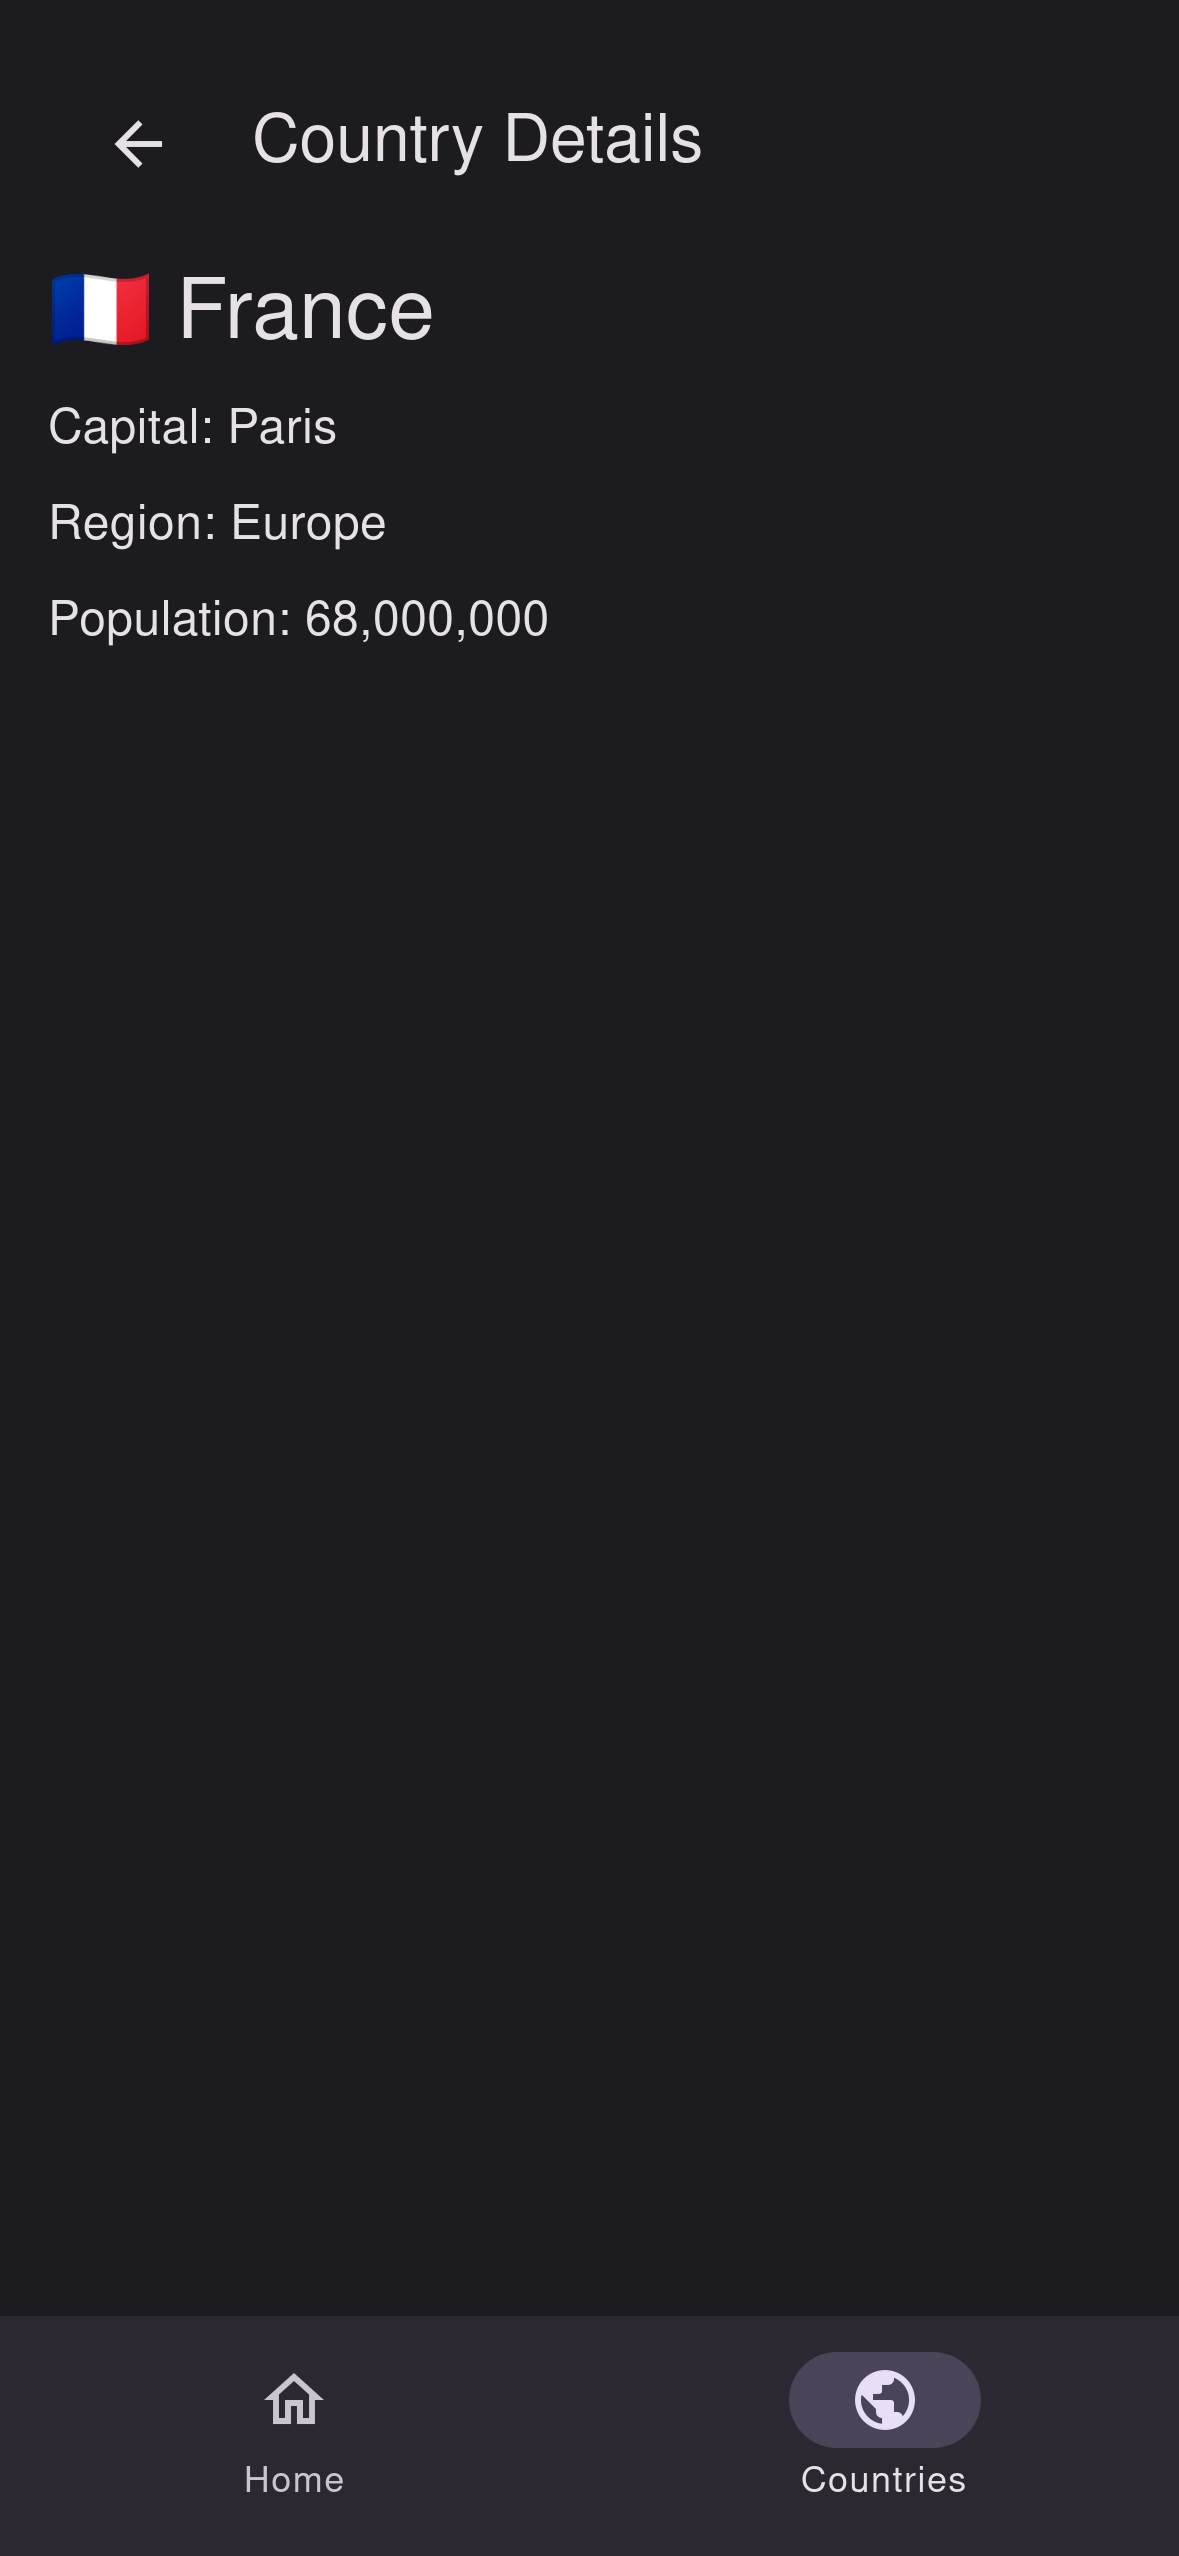
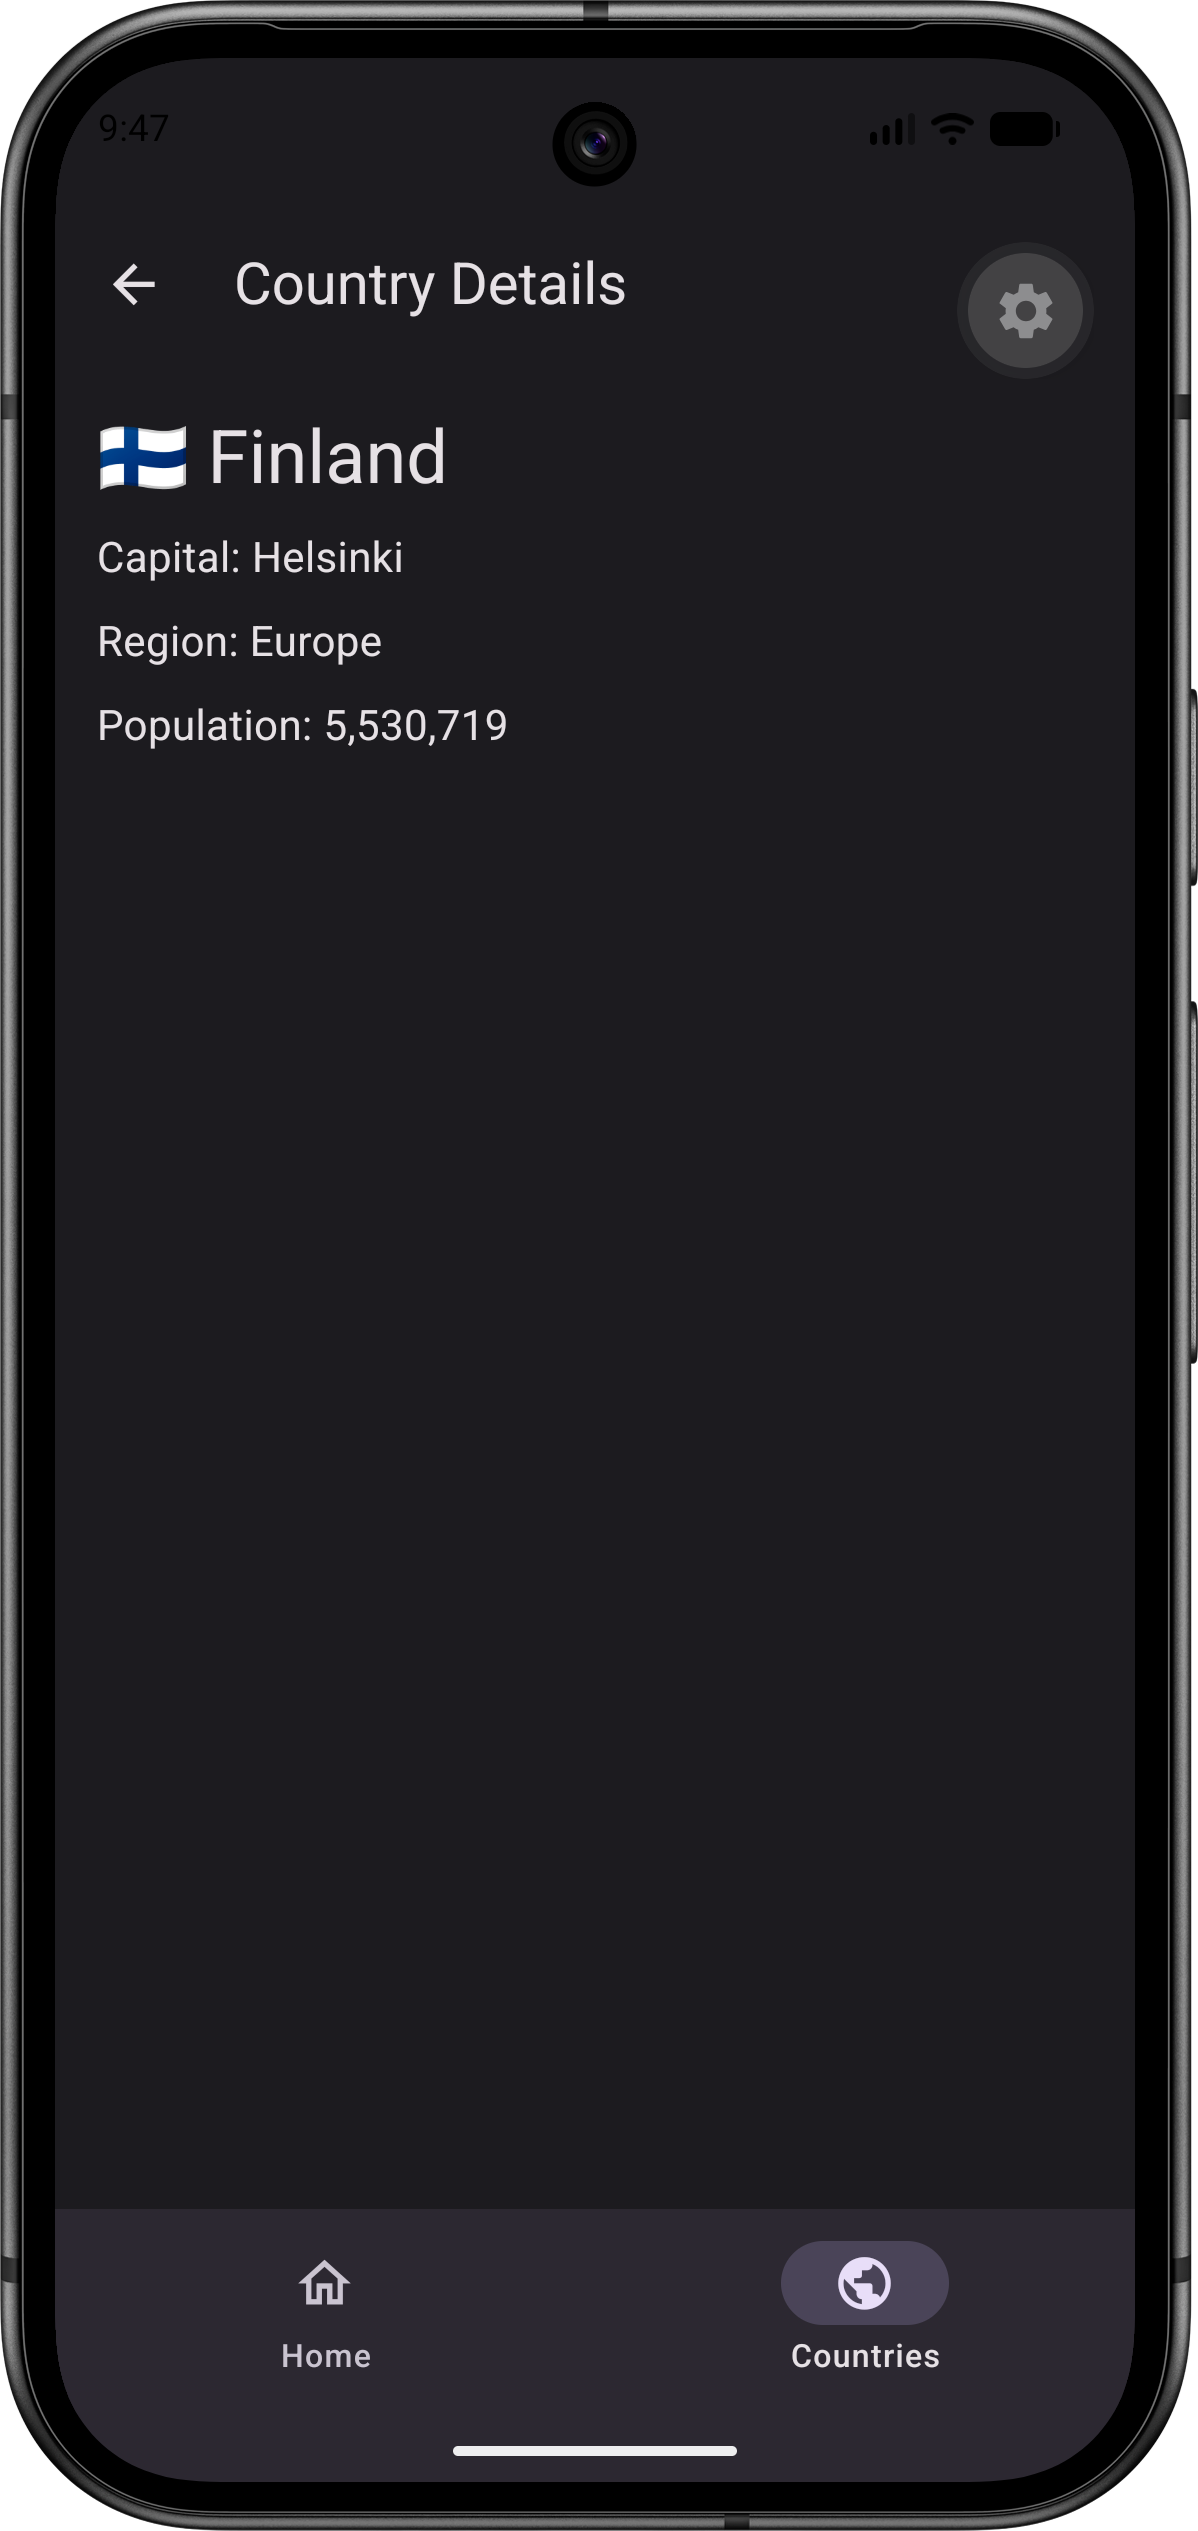
Finally Done. That was a lot

Changed region(s): [[0.0, 0.0, 1.0, 1.0], [0.7939, 0.0936, 0.916, 0.1561]]

diff --git a/screens/stack/DetailsScreen.tsx b/screens/stack/DetailsScreen.tsx
@@ -3,34 +3,58 @@ import { Appbar, Text, useTheme } from 'react-native-paper';
 import { NativeStackScreenProps } from '@react-navigation/native-stack';
 import { CountriesStackParamList } from '../../types/navigation';
 import data from '../../data/data.json';
+import { useCountry } from '@/hooks/useCountry';
+import LoadingState from '@/components/LoadingState';
+import ErrorState from '@/components/ErrorState';
 
 type Props = NativeStackScreenProps<CountriesStackParamList, 'Details'>;
 
 export default function DetailsScreen({ route, navigation }: Props) {
-    const theme = useTheme();
-  const { countryId } = route.params;
-  const country = data.find((c) => c.id === countryId);
+	const theme = useTheme();
+	const { countryId } = route.params;
+	const { detailState, refetch } = useCountry(countryId);
+	//const country = data.find((c) => c.id === countryId);
 
-  if (!country) return <Text>Country not found</Text>;
+	//if (!country) return <Text>Country not found</Text>;
 
-  return (
-    <View style={[ styles.container, { backgroundColor: theme.colors.background }]}>
-      <Appbar.Header>
-        <Appbar.Content title="Country Details" />
-        <Appbar.BackAction onPress={() => navigation.goBack()} />
-      </Appbar.Header>
-      <Text variant="headlineMedium">{country.flag} {country.name}</Text>
-      <Text variant="bodyLarge">Capital: {country.capital}</Text>
-      <Text variant="bodyLarge">Region: {country.region}</Text>
-      <Text variant="bodyLarge">Population: {country.population.toLocaleString()}</Text>
-    </View>
-  );
+	const header = (
+			<Appbar.Header>
+				<Appbar.Content title="Country Details" />
+				<Appbar.BackAction onPress={() => navigation.goBack()} />
+			</Appbar.Header>
+	);
+
+	let content;
+	if (detailState.status === 'loading') {
+		content = <LoadingState />;
+	} else if (detailState.status === 'error') {
+		content = <ErrorState onRetry={refetch} />;
+	} else if (detailState.status === 'success') {
+		const country = detailState.country;
+		content = (
+			<View style={styles.content}>
+				<Text variant="headlineMedium">{country.flag} {country.name}</Text>
+				<Text variant="bodyLarge">Capital: {country.capital}</Text>
+				<Text variant="bodyLarge">Region: {country.region}</Text>
+				<Text variant="bodyLarge">Population: {country.population.toLocaleString()}</Text>
+			</View>
+		)
+	} else {
+		content = <Text>Idle state</Text>;
+	}
+
+	return (
+		<View style={{ flex: 1, backgroundColor: theme.colors.background }}>
+			{header}
+			{content}
+		</View>
+	);
 }
 
 const styles = StyleSheet.create({
-  container: {
-    flex: 1,
-    padding: 16,
-    gap: 8,
-  },
+	content: {
+		flex: 1,
+		padding: 16,
+		gap: 8,
+	},
 });

diff --git a/screens/stack/ListScreen.tsx b/screens/stack/ListScreen.tsx
@@ -1,17 +1,25 @@
-import { View, FlatList } from 'react-native';
-import { Appbar, useTheme } from 'react-native-paper';
+import { View, FlatList, Text, Platform } from 'react-native';
+import { Appbar, useTheme, Searchbar } from 'react-native-paper';
 import { NativeStackScreenProps } from '@react-navigation/native-stack';
 import { CountriesStackParamList } from '../../types/navigation';
 import CountryCard from '@/components/CountryCard';
 import { useCountries } from '@/hooks/useCountries';
 import ErrorState from '@/components/ErrorState';
 import LoadingState from '@/components/LoadingState';
+import { useState } from 'react';
 
 type Props = NativeStackScreenProps<CountriesStackParamList, 'List'>;
 
 export default function ListScreen({ navigation }: Props) {
 	const theme = useTheme();
+	const [query, setQuery] = useState('');
 	const { listState, refetch } = useCountries();
+
+	const countries = listState.status === 'success' ? listState.countries : [];
+	const filtered = countries.filter((c) =>
+		c.name.toLowerCase().includes(query.toLowerCase()) ||
+		c.capital.toLowerCase().includes(query.toLowerCase())
+	);
 
 	if (listState.status === 'loading') {
 		return <LoadingState />;
@@ -19,23 +27,30 @@ export default function ListScreen({ navigation }: Props) {
 		return <ErrorState onRetry={refetch} />;
 	}
 
+	const searchbar = (
+		<Searchbar style={{ margin: 8 }} placeholder="Search country or capital" value={query} onChangeText={setQuery} />
+	);
+	
 	return (
 		<View style={{ flex: 1, backgroundColor: theme.colors.background }}>
 			<Appbar.Header>
 				<Appbar.Content title="Countries" />
 			</Appbar.Header>
-		<FlatList
-			style={{ backgroundColor: theme.colors.background }}
-			data={listState.status === 'success' ? listState.countries : []}
-			keyExtractor={(item) => item.id}
-			contentContainerStyle={{ padding: 16, gap: 12 }}
-			renderItem={({ item }) => (
-			<CountryCard
-				country={item}
-				onPress={() => navigation.navigate('Details', { countryId: item.id })}
+			{Platform.OS !== 'ios' && searchbar}
+			<FlatList
+				style={{ backgroundColor: theme.colors.background }}
+				data={filtered}
+				ListEmptyComponent={<Text style={{ color: theme.colors.onBackground }}>No countries match "{query}"</Text>}
+				keyExtractor={(item) => item.id}
+				contentContainerStyle={{ padding: 16, gap: 12 }}
+				renderItem={({ item }) => (
+				<CountryCard
+					country={item}
+					onPress={() => navigation.navigate('Details', { countryId: item.id })}
+				/>
+				)}
 			/>
-			)}
-		/>
+			{Platform.OS === 'ios' && searchbar}
 		</View>
 	);
 }

diff --git a/hooks/useCountry.ts b/hooks/useCountry.ts
@@ -1,0 +1,28 @@
+import { GET_COUNTRY_API_URL } from "@/constants/api";
+import { CountryDTO } from "@/types/CountryDTO";
+import { DetailState } from "@/types/DetailState";
+import { mapCountry } from "@/utils/mapCountry";
+import { useEffect, useState } from "react";
+
+export function useCountry(id: string) {
+    const [detailState, setDetailState] = useState<DetailState>({ status: 'idle' });
+
+    const fetchCountry = async () => {
+        setDetailState({ status: 'loading' });
+        try {
+            const response = await fetch(GET_COUNTRY_API_URL(id));
+            if (!response.ok) throw new Error(`HTTP error ' + response.status`);
+            const dto: CountryDTO = await response.json();
+            setDetailState({ status: 'success', country: mapCountry(dto) });
+        } catch (err) {
+            const message = err instanceof Error ? err.message : 'Unknown error';
+            setDetailState({ status: 'error', message });
+        }
+    };
+
+    useEffect(() => {
+        fetchCountry();
+    }, [id]);
+
+    return { detailState, refetch: fetchCountry };
+}

diff --git a/screens/HomeScreen.tsx b/screens/HomeScreen.tsx
@@ -1,8 +1,9 @@
 import { useState } from 'react';
-import { View, Text, StyleSheet } from 'react-native';
+import { View, Text, StyleSheet, Platform } from 'react-native';
 import { Appbar, useTheme } from 'react-native-paper';
 import CountryCard from '@/components/CountryCard';
 import data from '../data/data.json';
+import PlatformInfo from '../components/PlatformInfo';
 
 
 export default function HomeScreen() {
@@ -20,6 +21,8 @@ export default function HomeScreen() {
             <Appbar.Header>
                 <Appbar.Content title="Home" />
             </Appbar.Header>
+            <Text style={{ color: theme.colors.onBackground, margin: 16 }}>You are running CountryDex on {Platform.OS}</Text>
+            <PlatformInfo />
             <View style={{ flex: 1, justifyContent: 'center' }}>
             <Text style={styles.text}>Would you like to know more about your Country for this minute?</Text>
             <CountryCard 

diff --git a/components/LoadingState.tsx b/components/LoadingState.tsx
@@ -1,9 +1,10 @@
 import { View } from 'react-native';
-import { ActivityIndicator } from 'react-native-paper';
+import { ActivityIndicator, useTheme } from 'react-native-paper';
 
 export default function LoadingState() {
+    const theme = useTheme();
     return (
-        <View style={{ flex: 1, justifyContent: 'center', alignItems: 'center' }}>
+        <View style={{ flex: 1, justifyContent: 'center', alignItems: 'center', backgroundColor: theme.colors.background }}>
             <ActivityIndicator animating size="large"/>
         </View>
     );

diff --git a/constants/api.ts b/constants/api.ts
@@ -12,3 +12,7 @@ const COUNTRIES_API_FIELDS = [
 const COUNTRIES_API_QUERY = `?fields=${COUNTRIES_API_FIELDS.join(',')}`;
 
 export const COUNTRIES_API_FULL_URL = `${COUNTRIES_API_URL}${COUNTRIES_API_ENDPOINT}${COUNTRIES_API_QUERY}`;
+
+export function GET_COUNTRY_API_URL(countryId: string): string {
+    return `${COUNTRIES_API_URL}/alpha/${countryId}`;
+}

diff --git a/components/PlatformInfo.android.tsx b/components/PlatformInfo.android.tsx
@@ -1,0 +1,14 @@
+import { Avatar, Card, Text } from 'react-native-paper';
+
+export default function PlatformInfo() {
+    return (
+        <Card mode="elevated">
+            <Card.Title
+                title="You are on Android"
+                left={(props) => <Avatar.Icon {...props} icon="android" />}
+            />
+        </Card>
+    );
+}
+
+

diff --git a/components/PlatformInfo.ios.tsx b/components/PlatformInfo.ios.tsx
@@ -1,0 +1,12 @@
+import { Avatar, Card, Text } from 'react-native-paper';
+
+export default function PlatformInfo() {
+    return (
+        <Card mode="outlined">
+            <Card.Title
+                title="You are on iOS"
+                left={(props) => <Avatar.Icon {...props} icon="apple" />}
+            />
+        </Card>
+    );
+}

diff --git a/components/PlatformInfo.web.tsx b/components/PlatformInfo.web.tsx
@@ -1,0 +1,12 @@
+import { Avatar, Card, Text } from 'react-native-paper';
+
+export default function PlatformInfo() {
+    return (
+        <Card mode="contained">
+            <Card.Title
+                title="Your are on Web"
+                left={(props) => <Avatar.Icon {...props} icon="web" />}
+            />
+        </Card>
+    );
+}

diff --git a/types/DetailState.ts b/types/DetailState.ts
@@ -1,0 +1,7 @@
+import { Country } from './Country';
+
+export type DetailState = 
+    | { status: 'idle' }
+    | { status: 'loading' }
+    | { status: 'success'; country: Country }
+    | { status: 'error'; message: string };

diff --git a/README.md b/README.md
@@ -5,14 +5,32 @@ This is the same thing but with countries and without the fighting😅. You can 
 This is how my app looks until now. The **Home** screen show a pseudo random country every minute to interest the user in using the app.
 <table>
   <tr>
-    <td><img src="./assets/screenshots/Home.png" width="300"></td>
+    <td><img src="./assets/screenshots/HomeWeb.png" width="300"></td>
+    <td><img src="./assets/screenshots/HomeAndroid.png" width="300"></td>
     <td><img src="./assets/screenshots/List.png" width="300"></td>
     <td><img src="./assets/screenshots/Detail.png" width="300"></td>
   </tr>
 </table>
 
+
 ## API
-Switched from [restcountries](https://restcountries.com/) to [countries.dev](https://countries.dev/docs), because only default request was without token. But this works as well.
+- Switched from [restcountries](https://restcountries.com/) to [countries.dev](https://countries.dev/docs), because only default request was without token. But this works as well.
+- While we the user waits for the response a loading screen is shown. If something goes wrong an error screen is shown
+<table>
+  <tr>
+    <td><img src="./assets/screenshots/DetailLoading.png" width="300"></td>
+    <td><img src="./assets/screenshots/DetailError.png" width="300"></td>
+  </tr>
+</table>
+
+## Platform 
+- Simulated how ListScreen would look like for iOS with `'web'`
+
+<img src="./assets/screenshots/ListIos.png" width="200">
+
+## FutureFeatures
+- [ ] Seperate types for List and Detail Screen
+- [ ] Klicking Countries Tab Button while tab is active opens ListScreen
 ## Learnings
 ### imports
 - `@` is a pointer to a directory
